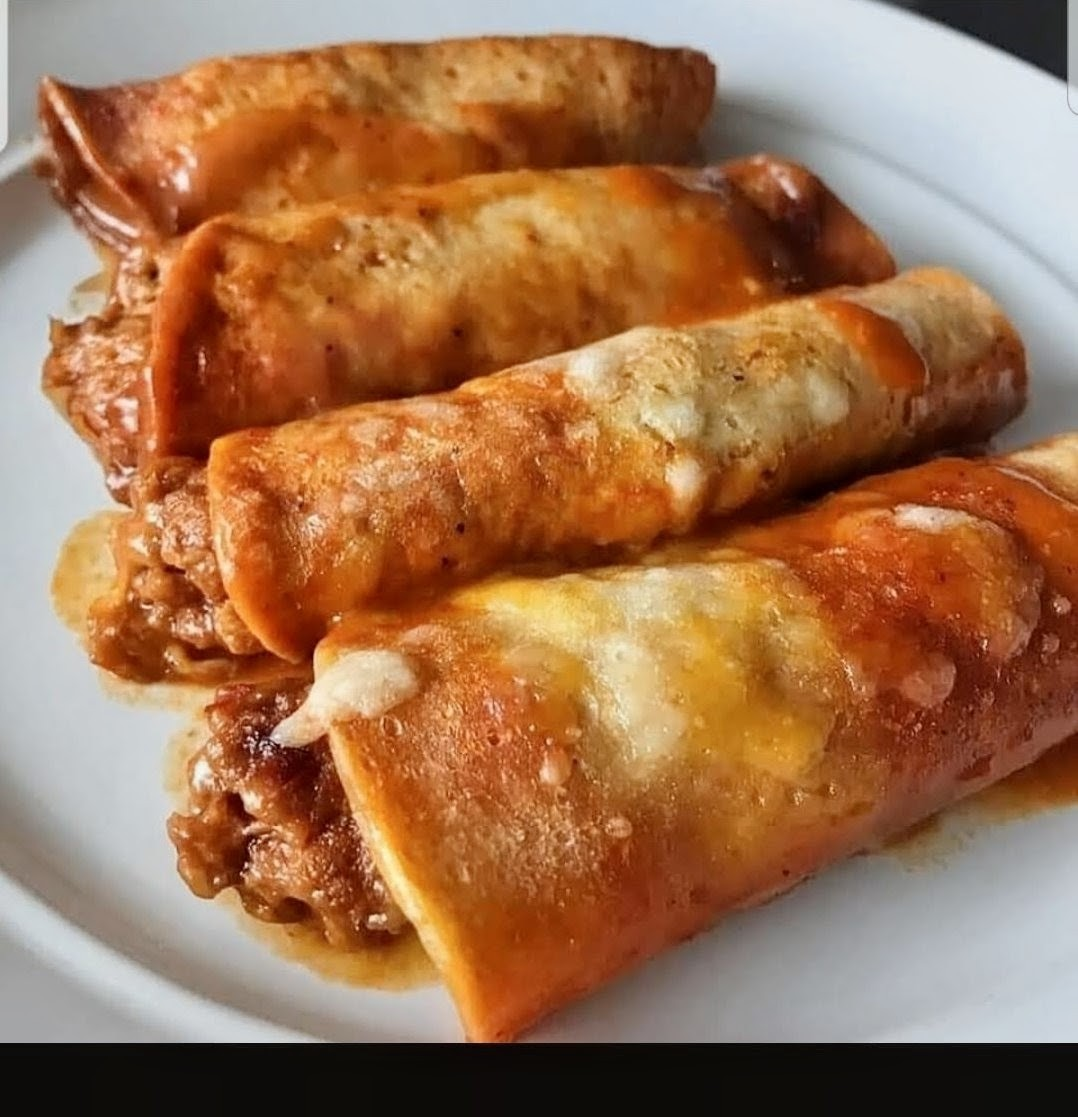
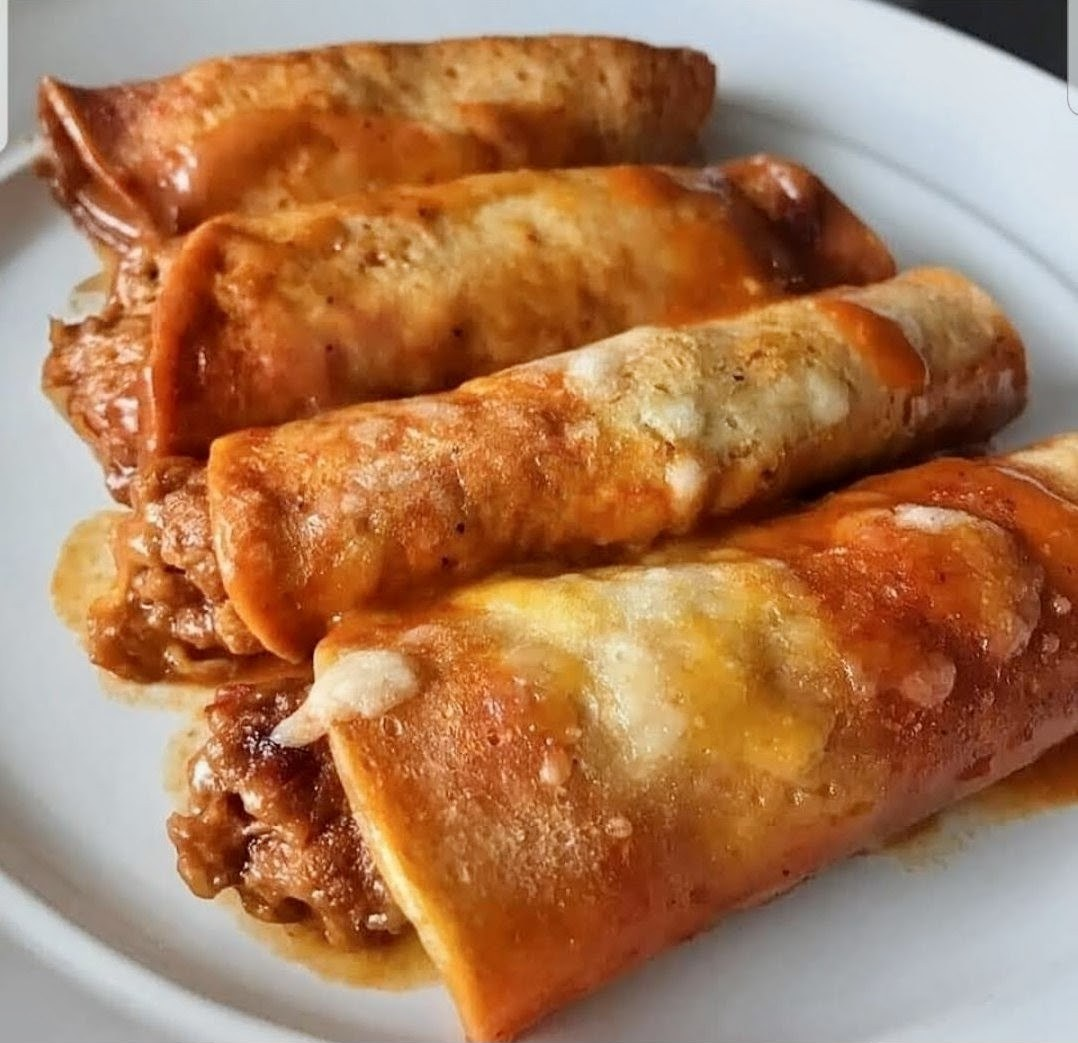
Aplica correcciones de carta y textos enviados por el cliente
- Titular incluye "y pastas artesanales"
- Descripciones exactas de Margherita, Quattro Formaggi y Gamberetto
- Fontana di Pasta: 2 pastas a eleccion para 3-4 comensales, con opciones
  veganas y vegetarianas
- Gnocchi Bolognesa pasa a "Gnocchi de Papa" con sus 4 salsas
- Canelones pasa a "Cannelloni" con la descripcion de la casa
- Nueva foto del equipo (1543x1028 horizontal) como fondo del hero, reemplaza
  la vertical de 828px que se veia borrosa en escritorio
- Recorta barras negras incrustadas en canelones, gamberetto y fachada

Claude-Session: https://claude.ai/code/session_01RVZkrCdJmFK49T2N8erXMc

diff --git a/src/components/Menu.tsx b/src/components/Menu.tsx
@@ -3,42 +3,42 @@ const dishes = [
     name: 'Margherita',
     category: 'Pizza',
     description:
-      'Salsa de tomate, mozzarella fundida, tomate cherry, aceitunas y albahaca fresca.',
+      'Salsa pomodoro, mozzarella, tomates cherry, aceitunas negras y sevillanas, un toque de albahaca fresca.',
     image: '/media/margherita.jpeg',
   },
   {
     name: 'Quattro Formaggi',
     category: 'Pizza',
     description:
-      'Cuatro quesos seleccionados con cebolla morada y un toque de orégano.',
+      'Quesos cheddar, roquefort, mozzarella y cabra, suaves láminas de cebolla morada y toques de aceite de oliva.',
     image: '/media/quattro-formaggi.jpeg',
   },
   {
     name: 'Gamberetto',
     category: 'Pizza',
     description:
-      'Camarones, aceitunas verdes, pimiento rojo, tomate cherry y albahaca.',
+      'Camarones ecuatorianos, aceitunas sevillanas, tomates cherry y toques de albahaca natural.',
     image: '/media/gamberetto.jpeg',
   },
   {
     name: 'Fontana di Pasta',
     category: 'Pasta',
     description:
-      'Bandeja para compartir con salsas bolognesa, blanca y pesto de espinaca.',
+      '2 pastas a elección, idealmente para 3 a 4 comensales: cannelloni, lasagna, ñoquis o fettuccini. Siempre con alternativas veganas y vegetarianas.',
     image: '/media/fontana-di-pasta.jpeg',
   },
   {
-    name: 'Gnocchi Bolognesa',
+    name: 'Gnocchi de Papa',
     category: 'Pasta',
     description:
-      'Ñoquis caseros con salsa bolognesa de cocción lenta y parmesano en hebras.',
+      'Ñoquis caseros de papa natural, con salsa a elección: bolognesa, pesto, camarón crema y albahaca, o alfredo.',
     image: '/media/gnocchi-bolognesa.jpeg',
   },
   {
-    name: 'Canelones',
+    name: 'Cannelloni',
     category: 'Pasta',
     description:
-      'Rellenos de espinaca o bolognesa, gratinados al horno con salsa de la casa.',
+      'Exquisita masa suave de panqueques, rellenos de espinaca, crema y salsa bolognesa.',
     image: '/media/canelones.jpeg',
   },
 ]

diff --git a/src/components/Hero.tsx b/src/components/Hero.tsx
@@ -5,7 +5,7 @@ function Hero() {
       className="relative flex min-h-screen items-center justify-center overflow-hidden px-4 py-20 text-center"
       style={{
         backgroundImage:
-          "linear-gradient(rgba(0,0,0,0.6), rgba(0,0,0,0.45)), url('/media/local-tarantella.jpeg')",
+          "linear-gradient(rgba(0,0,0,0.6), rgba(0,0,0,0.45)), url('/media/equipo-tarantella.jpeg')",
         backgroundSize: 'cover',
         backgroundPosition: 'center',
       }}
@@ -19,11 +19,11 @@ function Hero() {
           Eventos Pizza Tarantella
         </p>
         <h1 className="font-serif text-4xl leading-tight text-[#fdfcf8] md:text-6xl">
-          La Auténtica Pizza a la Piedra en tu Evento
+          La Auténtica Pizza a la Piedra y Pastas Artesanales en tu Evento
         </h1>
         <p className="mx-auto mt-6 max-w-2xl text-base text-[#fdfcf8]/90 md:text-xl">
-          Desde Buenos Aires hasta Santiago: recetas de familia, pizzas y
-          pastas artesanales y cocina en vivo para tu celebración.
+          Desde Buenos Aires hasta Santiago: recetas de familia y cocina en
+          vivo para tu celebración.
         </p>
         <a
           href="#contact"
